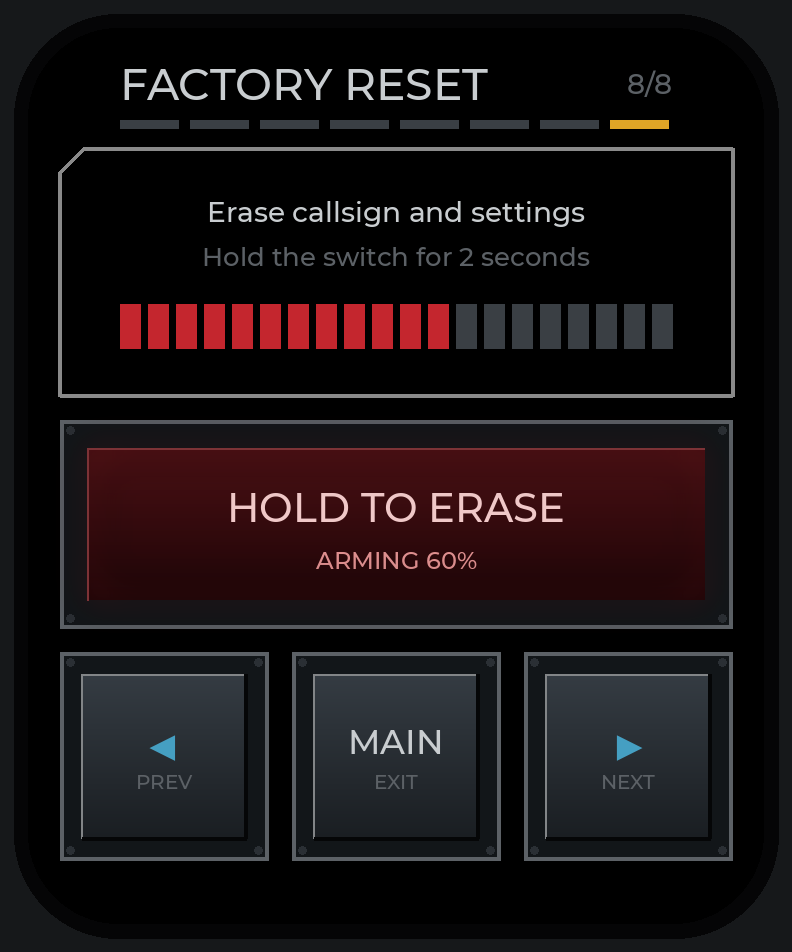
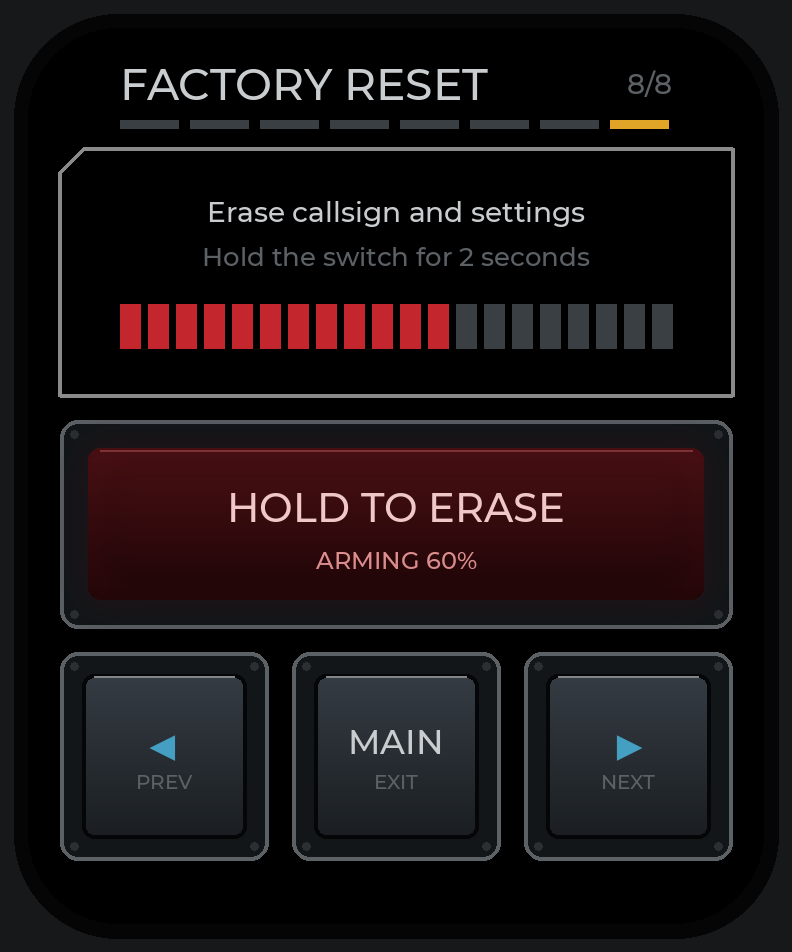
Mock-ups: rounded keys, spaced Aurebesh, calmer readouts
Key housings/caps get rounded corners; Aurebesh text gets letter spacing and
a slight stretch and uses letters-only words; readout lines hold and change
one at a time. Spec updated to match.

Claude-Session: https://claude.ai/code/session_014PmTqdRFYRCH22NdKcRT7c

diff --git a/design/mockups/make_mockups.py b/design/mockups/make_mockups.py
@@ -61,18 +61,56 @@ class Screen:
         self.d.line([(x * S, y * S) for x, y in pts], fill=fill, width=width * S)
 
     def text(self, x, y, s, f, fill, anchor="la"):
+        if getattr(f, "path", "") == AUREB:
+            return self.spaced_text(x, y, s, f, fill, anchor)
         self.d.text((x * S, y * S), s, font=f, fill=fill, anchor=anchor)
+
+    def spaced_text(self, x, y, s, f, fill, anchor, track=0.22, stretch=1.15):
+        """Aurebesh: open the letter spacing and widen the glyphs a little so it reads
+        like a real script instead of a squashed row."""
+        size = f.size
+        widths = [f.getlength(ch) for ch in s]
+        tw = sum(widths) + track * size * max(0, len(s) - 1)
+        tmp = Image.new("RGBA", (int(tw) + size, int(size * 1.6)), (0, 0, 0, 0))
+        td = ImageDraw.Draw(tmp)
+        cx = 0
+        for ch, w in zip(s, widths):
+            td.text((cx, size * 0.8), ch, font=f, fill=fill, anchor="lm")
+            cx += w + track * size
+        tmp = tmp.resize((int(tmp.width * stretch), tmp.height), Image.LANCZOS)
+        real_w = tw * stretch
+        px, py = x * S, y * S
+        if anchor[0] == "m":
+            px -= real_w / 2
+        elif anchor[0] == "r":
+            px -= real_w
+        py -= size * 0.8 if anchor[1] == "m" else size * 0.3
+        self.img.alpha_composite(tmp, (int(px), int(py)))
+        self.d = ImageDraw.Draw(self.img)
 
     def glow_rect(self, x0, y0, x1, y1, col, alpha=150, ring=False):
         if ring:   # halo around a lit key: outline only, so the label stays clean
-            self.g.rectangle(self.b(x0 - 3, y0 - 3, x1 + 3, y1 + 3), outline=hexrgb(col, alpha), width=7 * S)
+            self.g.rounded_rectangle(self.b(x0 - 3, y0 - 3, x1 + 3, y1 + 3), radius=10 * S,
+                                     outline=hexrgb(col, alpha), width=7 * S)
         else:
             self.g.rectangle(self.b(x0, y0, x1, y1), fill=hexrgb(col, alpha))
 
-    def vgrad(self, x0, y0, x1, y1, top, bottom):
-        for y in range(int(y0 * S), int(y1 * S)):
-            t = (y - y0 * S) / max(1, (y1 - y0) * S)
-            self.d.line([(x0 * S, y), (x1 * S, y)], fill=mix(top, bottom, t))
+    def vgrad(self, x0, y0, x1, y1, top, bottom, radius=0):
+        if radius == 0:
+            for y in range(int(y0 * S), int(y1 * S)):
+                t = (y - y0 * S) / max(1, (y1 - y0) * S)
+                self.d.line([(x0 * S, y), (x1 * S, y)], fill=mix(top, bottom, t))
+            return
+        w, h = int((x1 - x0) * S), int((y1 - y0) * S)
+        layer = Image.new("RGBA", (w, h))
+        ld = ImageDraw.Draw(layer)
+        for yy in range(h):
+            ld.line([(0, yy), (w, yy)], fill=mix(top, bottom, yy / max(1, h)))
+        m = Image.new("L", (w, h), 0)
+        ImageDraw.Draw(m).rounded_rectangle([0, 0, w - 1, h - 1], radius=radius * S, fill=255)
+        layer.putalpha(m)
+        self.img.alpha_composite(layer, (int(x0 * S), int(y0 * S)))
+        self.d = ImageDraw.Draw(self.img)
 
     def arc(self, cx, cy, r, a0, a1, col, width):
         self.d.arc(self.b(cx - r, cy - r, cx + r, cy + r), a0, a1, fill=col, width=width * S)
@@ -92,9 +130,12 @@ class Screen:
 
 
 # ---------------- components ----------------
+KEY_R, CAP_R = 9, 6     # corner radii: housing, cap (softened console hardware)
+
+
 def housing(sc, x, y, w, h):
-    sc.rect(x, y, x + w, y + h, fill="#121619", outline=FRAME, width=2)
-    for sx, sy in ((x + 5, y + 5), (x + w - 5, y + 5), (x + 5, y + h - 5), (x + w - 5, y + h - 5)):
+    sc.d.rounded_rectangle(sc.b(x, y, x + w, y + h), radius=KEY_R * S, fill="#121619", outline=FRAME, width=2 * S)
+    for sx, sy in ((x + 7, y + 7), (x + w - 7, y + 7), (x + 7, y + h - 7), (x + w - 7, y + h - 7)):
         sc.d.ellipse(sc.b(sx - 2, sy - 2, sx + 2, sy + 2), fill="#2A2F34")       # panel screws
 
 
@@ -105,13 +146,13 @@ def key(sc, x, y, w, h, label, accent=TEXT, lit=False, sub=None, big=False, pres
     cx0, cy0, cx1, cy1 = x + i, y + i + (2 if pressed else 0), x + w - i, y + h - i + (2 if pressed else 0)
     if lit:
         sc.glow_rect(cx0 - 2, cy0 - 2, cx1 + 2, cy1 + 2, accent, 190, ring=True)
-        sc.vgrad(cx0, cy0, cx1, cy1, mix(accent, "#FFFFFF", 0.25), mix(accent, "#000000", 0.25))
+        sc.vgrad(cx0, cy0, cx1, cy1, mix(accent, "#FFFFFF", 0.25), mix(accent, "#000000", 0.25), CAP_R)
         fg = "#FFF4F0"
     else:
-        sc.vgrad(cx0, cy0, cx1, cy1, "#353C43" if not pressed else "#23292E", "#1A1E22")
+        sc.vgrad(cx0, cy0, cx1, cy1, "#353C43" if not pressed else "#23292E", "#1A1E22", CAP_R)
         fg = accent
-    sc.line([(cx0, cy1), (cx0, cy0), (cx1, cy0)], mix(TEXT, "#000000", 0.35 if not lit else 0.0), 1)  # highlight
-    sc.line([(cx0, cy1), (cx1, cy1), (cx1, cy0)], "#050607", 2)                                      # shadow
+    sc.d.rounded_rectangle(sc.b(cx0, cy0, cx1, cy1), radius=CAP_R * S, outline="#050607", width=2 * S)  # shadow rim
+    sc.line([(cx0 + CAP_R, cy0 + 1), (cx1 - CAP_R, cy0 + 1)], mix(TEXT, "#000000", 0.35 if not lit else 0.0), 1)  # top highlight
     f = font(MONT, 30 if big else 17)
     ty = (cy0 + cy1) / 2 - (7 if sub else 0)
     sc.text((cx0 + cx1) / 2, ty, label, f, fg, "mm")
@@ -136,15 +177,15 @@ def guarded_toggle(sc, x, y, w, h, cover_open=False, label="LOCK"):
     layer = Image.new("RGBA", sc.img.size, (0, 0, 0, 0))
     ld = ImageDraw.Draw(layer)
     x0, y0, x1, y1 = [v * S for v in cov]
-    ld.rectangle([x0, y0, x1, y1], fill=hexrgb("#6E1015", 215))
+    ld.rounded_rectangle([x0, y0, x1, y1], radius=5 * S, fill=hexrgb("#6E1015", 215))
     for k in range(-int(y1 - y0), int(x1 - x0), 16 * S):          # hazard stripes
         ld.line([(x0 + k, y1), (x0 + k + (y1 - y0), y0)], fill=hexrgb("#1A0405", 230), width=6 * S)
     lm = Image.new("L", sc.img.size, 0)
-    ImageDraw.Draw(lm).rectangle([x0, y0, x1, y1], fill=255)
+    ImageDraw.Draw(lm).rounded_rectangle([x0, y0, x1, y1], radius=5 * S, fill=255)
     layer.putalpha(Image.composite(layer.getchannel("A"), Image.new("L", sc.img.size, 0), lm))
     sc.img.alpha_composite(layer)
     sc.d = ImageDraw.Draw(sc.img)
-    sc.rect(*cov, outline="#C4262E", width=2)
+    sc.d.rounded_rectangle(sc.b(*cov), radius=5 * S, outline="#C4262E", width=2 * S)
     sc.rect(cov[0] + 20, cov[1] - 3 + (0 if cover_open else 0), cov[2] - 20, cov[1] + 3, fill="#8A9095")  # hinge
     if not cover_open:
         sc.text((cov[0] + cov[2]) / 2, (cov[1] + cov[3]) / 2 + 4, "LOCK", font(MONT, 15), "#F0C8C8", "mm")
@@ -232,17 +273,29 @@ def voice_wave(n, seed, t=0):
     return out
 
 
-TICK_WORDS = ["SEC 7", "TK 421", "AUTH 9", "SCAN", "CH 04", "GRID 2", "LINK", "SYNC 3", "ENC A7"]
+# letters only: Aurebesh digits render as tiny marks; every word fits the 118 px column
+TICK_WORDS = ["SECTOR", "ACCESS", "SCANNER", "CHANNEL", "UPLINK", "CIPHER", "RELAY", "VECTOR",
+              "SIGNAL", "BEACON", "ORBIT", "PATROL", "DOCKING", "CLEARED", "ARMED", "COMLINK"]
 
 
-def ticker(sc, x, y, lines, f, col, t=0):
-    for i in range(lines):
-        w = TICK_WORDS[(i * 3 + t) % len(TICK_WORDS)] + " " + TICK_WORDS[(i * 5 + t + 2) % len(TICK_WORDS)]
-        sc.text(x, y + i * 18, w, f, col)
+class Ticker:
+    """Readout lines that hold still; every so often ONE line changes (not a scroll)."""
+    def __init__(self, lines, seed):
+        self.rnd = random.Random(seed)
+        self.lines = [self.rnd.choice(TICK_WORDS) for _ in range(lines)]
+
+    def step(self):
+        i = self.rnd.randrange(len(self.lines))
+        self.lines[i] = self.rnd.choice([w for w in TICK_WORDS if w not in self.lines])
+
+
+def ticker(sc, x, y, tk, f, col):
+    for i, w in enumerate(tk.lines):
+        sc.text(x, y + i * 22, w, f, col)
 
 
 # ---------------- screens ----------------
-def main_screen(live=False, cover_open=False, t=0, lamp_states=None, lamp_opas=None, level=62):
+def main_screen(live=False, cover_open=False, t=0, lamp_states=None, lamp_opas=None, level=62, tk=None):
     sc = Screen()
     sc.text(46, 30, "TK-421", font(AURENG, 26), RED, "lm")
     small_lamp(sc, 252, 22, "TX", level > 22)
@@ -250,7 +303,7 @@ def main_screen(live=False, cover_open=False, t=0, lamp_states=None, lamp_opas=N
     scope(sc, 18, 62, 288, 176, BLUE, voice_wave(60, 3, t))
     seg_meter(sc, 306, 178, level)
     lamps(sc, 24, 196, lamp_states or ["blue", "grey", "orange", "grey", "red", "blue", "orange"], lamp_opas)
-    ticker(sc, 120, 200, 4, font(AUREB, 13), mix(AMBER, "#000000", 0.35), t // 3)
+    ticker(sc, 118, 198, tk or Ticker(4, 1), font(AUREB, 13), mix(AMBER, "#000000", 0.35))
     scomp(sc, 290, 244, 46, t / 8)
     guarded_toggle(sc, 16, 304, 104, 114, cover_open)
     key(sc, 132, 304, 104, 114, "SYS", BLUE, sub="SETTINGS")
@@ -269,7 +322,7 @@ def lock_screen():
     scope(sc, 18, 62, 288, 176, RED, voice_wave(60, 5))
     seg_meter(sc, 306, 178, 55)
     lamps(sc, 24, 196, ["red", "grey", "blue", "orange", "grey", "red", "blue"])
-    ticker(sc, 120, 200, 4, font(AUREB, 13), mix(AMBER, "#000000", 0.35), 4)
+    ticker(sc, 118, 198, Ticker(4, 9), font(AUREB, 13), mix(AMBER, "#000000", 0.35))
     scomp(sc, 290, 244, 46, 2.3)
     # control positions become read-only plates
     housing(sc, 16, 304, 104, 114)
@@ -309,7 +362,7 @@ def settings_screen(name="EFFECT", value=70, page=2, desc="DRIVE + BITCRUSH", un
     sc.text(176, 76, desc, font(MONT, 13), TEXT, "lm")
     for i in range(10):                                         # 10-seg bar
         sc.rect(176 + i * 17, 94, 189 + i * 17, 112, fill=AMBER if i < value // 10 else DIM)
-    ticker(sc, 176, 128, 2, font(AUREB, 12), mix(AMBER, "#000000", 0.45), 2)
+    ticker(sc, 176, 128, Ticker(2, 4), font(AUREB, 12), mix(AMBER, "#000000", 0.45))
     for i, c in enumerate(["blue", "red", "grey"]):   # small status lamps (drift like the main cluster)
         sc.rect(176 + i * 22, 168, 192 + i * 22, 176, fill=LAMP[c])
     notched_frame(sc, 16, 60, 352, 184)
@@ -330,9 +383,9 @@ def reset_screen(progress=0.6):
         sc.rect(46 + i * 14, 138, 56 + i * 14, 160, fill=RED if i < int(progress * 20) else DIM)
     notched_frame(sc, 16, 60, 352, 184)
     housing(sc, 16, 196, 336, 104)
-    sc.vgrad(30, 210, 338, 286, "#4A1014", "#1E0507")
+    sc.vgrad(30, 210, 338, 286, "#4A1014", "#1E0507", CAP_R)
     sc.glow_rect(30, 210, 338, 286, RED, 140, ring=True)
-    sc.line([(30, 286), (30, 210), (338, 210)], "#8A3A3E", 1)
+    sc.line([(30 + CAP_R, 211), (338 - CAP_R, 211)], "#8A3A3E", 1)
     sc.text(184, 240, "HOLD TO ERASE", font(MONT, 20), "#F0C8C8", "mm")
     sc.text(184, 266, f"ARMING {int(progress * 100)}%", font(MONT, 12), "#E09090", "mm")
     key(sc, 16, 312, 104, 104, "◀", BLUE, sub="PREV", big=True)
@@ -404,13 +457,16 @@ def main():
     rnd = random.Random(7)
     states = ["blue", "grey", "orange", "grey", "red", "blue", "orange"]
     frames = []
+    tk = Ticker(4, 1)
     for f in range(48):
+        if f % 14 == 13:          # one readout line changes about every 1.5 s
+            tk.step()
         if f % 12 == 11:
             j = rnd.randrange(7)
             states[j] = rnd.choice([c for c in LAMP if c != states[j]])
         opas = [(0.45 + 0.55 * abs(math.sin((f + i * 5) / 7.6))) if s == "red" else 1 for i, s in enumerate(states)]
         im = main_screen(live=f >= 24, t=f, lamp_states=list(states), lamp_opas=opas,
-                         level=int(40 + 35 * abs(math.sin(f / 5)))).finish()
+                         level=int(40 + 35 * abs(math.sin(f / 5))), tk=tk).finish()
         frames.append(im.resize((im.width // 2, im.height // 2), Image.LANCZOS))
     frames[0].save(os.path.join(out, "main_alive.gif"), save_all=True, append_images=frames[1:],
                    duration=110, loop=0)

diff --git a/docs/UI-DESIGN.md b/docs/UI-DESIGN.md
@@ -54,7 +54,7 @@ four. Red always means "transmitting / live / danger". Keep large areas black.
 |---|---|---|
 | Labels, keys | Condensed square sans, all caps, +1–2 px letter spacing | 20–24 px |
 | Big readout (values, callsign) | Same face, tabular digits | 32–40 px |
-| Microtext / decoration | Aurebesh (Tiny TTF, already in repo) | 12–16 px |
+| Microtext / decoration | Aurebesh (Tiny TTF, already in repo), letter spacing ≈ 0.22 em + 15 % horizontal stretch, letters only (its digits render as tiny marks) | 12–16 px |
 | Fallback | Montserrat (built in) | — |
 
 - Candidate Latin faces (OFL, free for commercial use; convert with `lv_font_conv`):
@@ -92,6 +92,9 @@ Interaction rules that follow:
 - **Hit area ≥ drawn area.** A key may look like a 90 px frame but its touch area fills the cell
   (LVGL `ext_click_area`).
 - **Press feedback within one frame:** key face fills with its accent while pressed.
+- **Keys are console hardware:** housing radius ≈ 9 px, cap radius ≈ 6 px, bevelled cap,
+  panel screws; lit keys glow around the edge (never over the label). Display frames stay
+  square/notched.
 - **Destructive = hold.** Factory reset and similar: hold 2 s with a filling bar, no tiny
   confirm buttons.
 - **One-thumb reach:** the most-used keys sit in the bottom half.
@@ -113,7 +116,8 @@ that is why the callsign screen becomes one-character-at-a-time.
 ## 6. Motion
 
 - Lamps: slow drift between colours (existing), red pulse ≈ 6 s.
-- Readouts: microtext ticks every 300–400 ms; hex/number scramble on change.
+- Readouts: lines hold still; about every 1.5–3 s ONE line changes to a new word. No scrolling,
+  no whole-block flicker. (Hex codes on the lock screen may change faster.)
 - Screen change: hard cut or a 120 ms horizontal wipe with a scan line. No fades.
 - Key press: instant fill, 80 ms release.
 - Respect frame rate: the SH8601 path redraws over QSPI; keep animated areas small.
